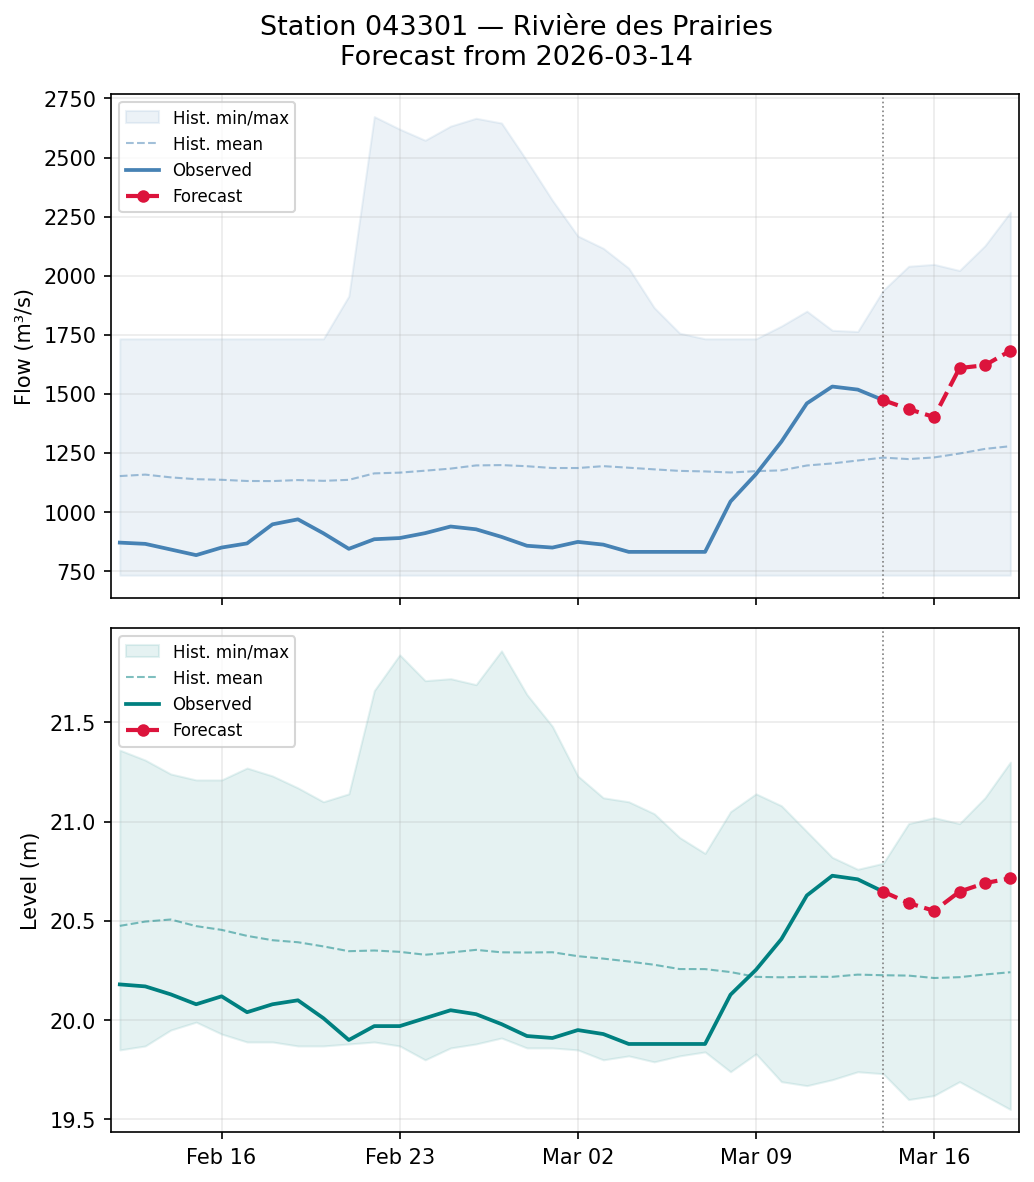
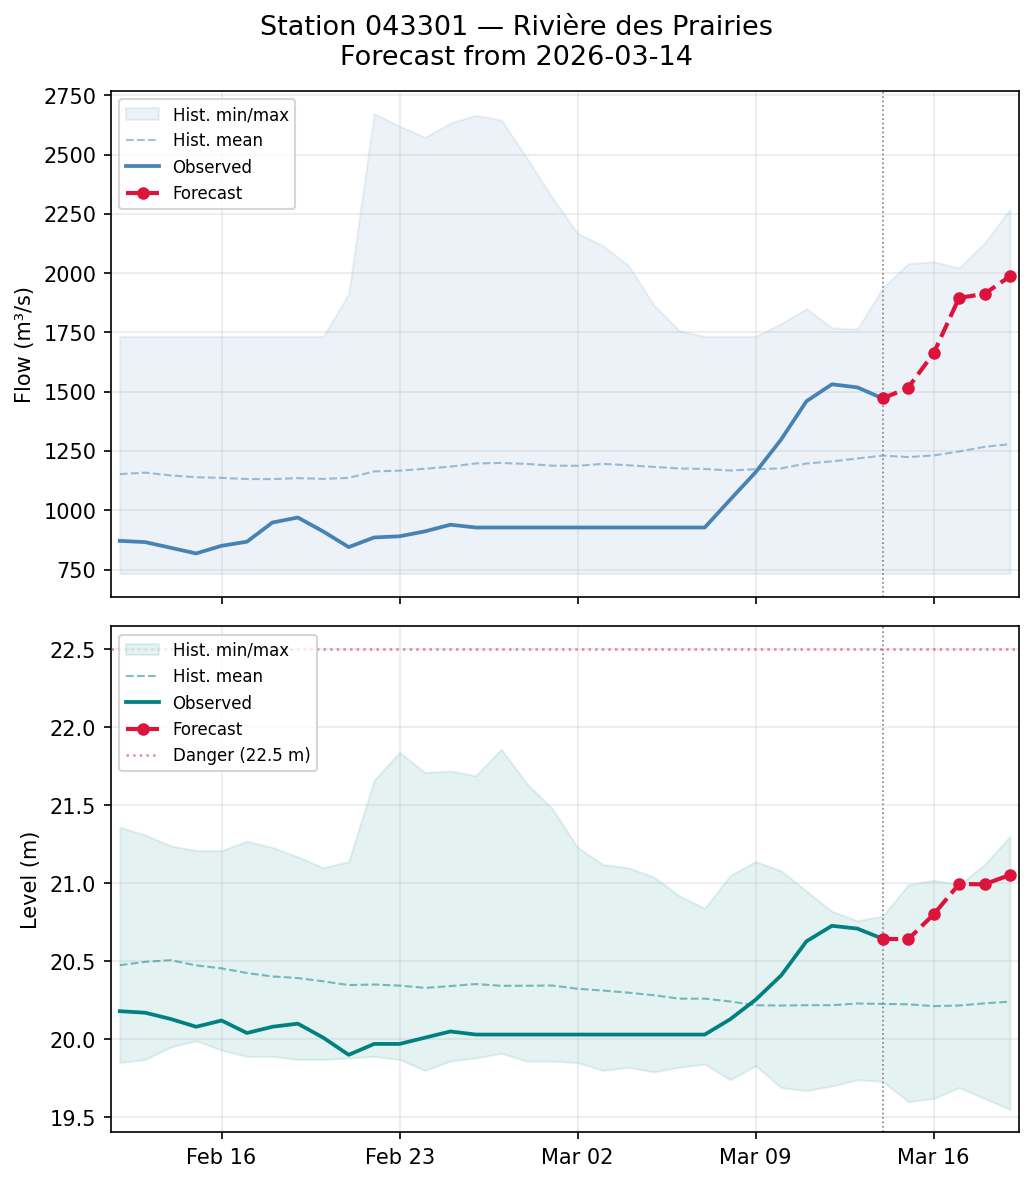
feat: add danger zone line at 22.5 m on level chart

diff --git a/src/predict.py b/src/predict.py
@@ -239,6 +239,11 @@ def plot_forecast(
         ax.plot(bridge_dates, bridge_values, color="crimson", lw=2,
                 linestyle="--", marker="o", markersize=5, zorder=5, label="Forecast")
 
+        # Danger zone line (level panel only)
+        if var == "level_m":
+            ax.axhline(22.5, color="crimson", lw=1.2, linestyle=":",
+                       alpha=0.5, label="Danger (22.5 m)", zorder=4)
+
         # "Today" marker
         ax.axvline(anchor_date, color="gray", lw=0.8, linestyle=":")
 
